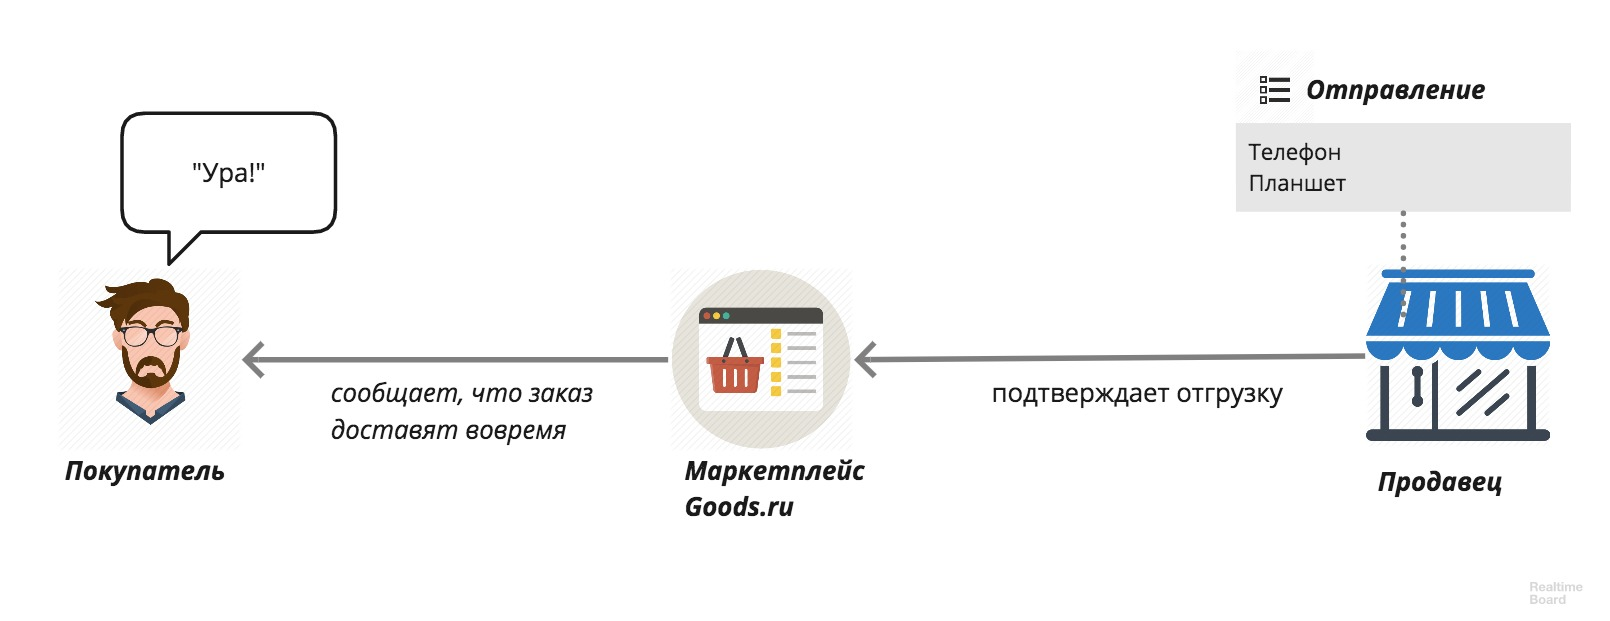
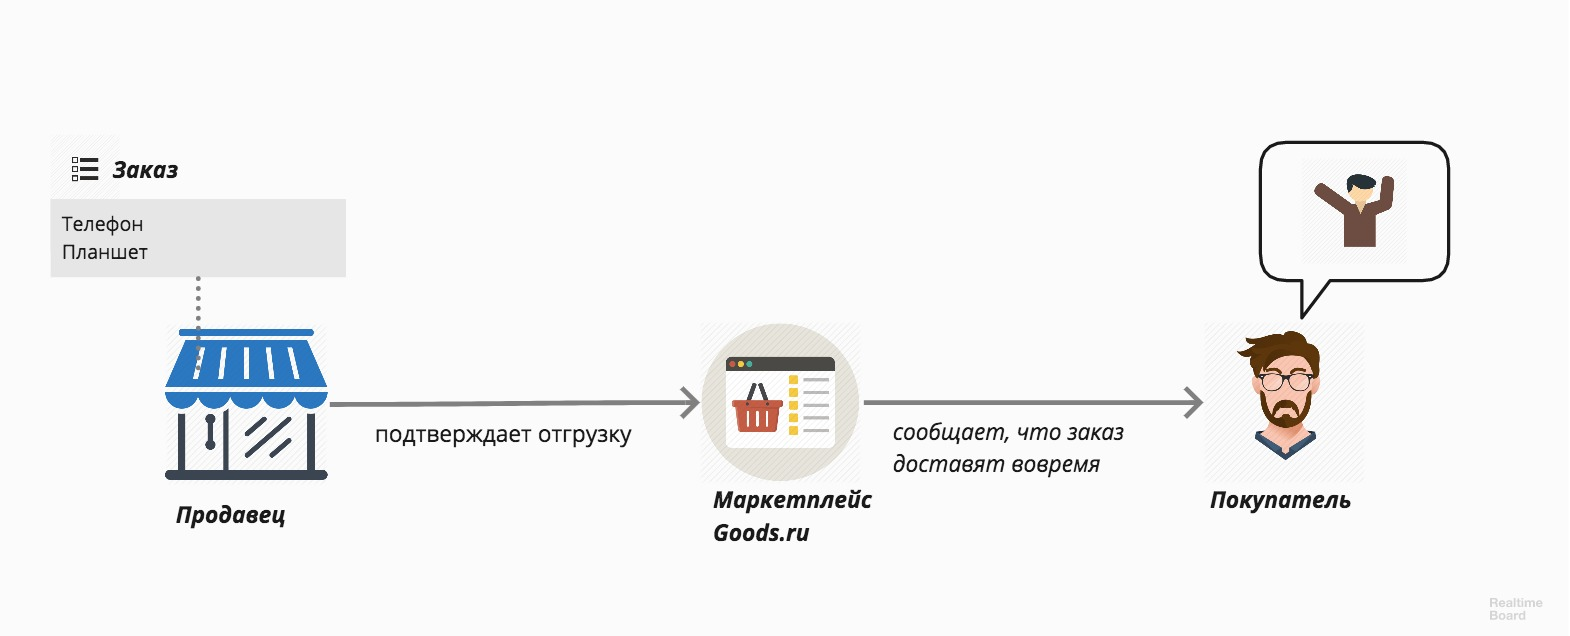
change text

diff --git a/index.html b/index.html
@@ -65,9 +65,9 @@
 <h3>Взаимодействие продавцов с Goods</h3>
 
 <ol>
-	<li><em>Продавец</em> подписывает договор об оказании услуг, после чего размещает товарные предложения на сайте Goods. Управление товарными предложениями осуществляется через прайс-лист в формате YML (<a href="#yml">подробнее про YML</a>). 
+	<li><strong><em>Продавец</em> размещает товарные предложения для продажи на маркетплейса Goods.ru.</strong>
 
-		<p>Товарные предложения описываются характеристиками:</p>
+		<p>Управление товарными предложениями осуществляется через прайс-лист в формате YML (<a href="#yml">подробнее про YML</a>). Товарные предложения описываются характеристиками:</p>
 
 		<ul>
 			<li>товар;</li>
@@ -79,8 +79,10 @@
 		<h4>Пример описания товарных предложений в прайс-листе</h4>
 
 		<script src="https://gist.github.com/zavarovkv/7eb65b1b4014e7de8e0f4fa9d785811d.js"></script></li>
-	<li><em>Покупатель</em> оформил заказ<em> на </em>маркетплейсе<em> Goods.ru. Предположим, заказ состоит из трех позиций: 
-		</em>
+	<li><strong><em>Покупатель</em> оформляет заказ на маркетплейсе<em> Goods.ru</em>.
+		</strong>
+
+		<p>Предположим, заказ состоит из трех позиций:</p>
 
 		<ul>
 			<li><em>телефон</em> </li>
@@ -91,14 +93,27 @@
 		<p><em>Телефон</em> и <em>планшет</em> куплен у <em>Продавец 1</em>, а <em>корм для питомца</em> у <em>Продавец 2</em>. Goods сообщает каждому из продавцов про свою часть заказа.</p>
 
 		<figure><img src="img-1.jpg"/></figure></li>
-	<li>Для упрощения рассмотрим взаимодействие Goods только с одним из продавцом.
+	<li><strong><em>Продавец</em> подтверждает получение заказа от Goods.</strong> 
+
+		<blockquote>
+		<p>Для упрощения рассмотрим взаимодействие Goods только с одним из продавцом.</p>
+		</blockquote>
 
 		<p>Продавец, получив новый заказ от Goods проверяет доступное кол-во остатков по каждой из позиции и дает свое согласие об отгрузке отправления в указанный срок.</p>
 
 		<figure><img src="img-2.jpg"/></figure></li>
-	<li>Продавец комплектует товары по грузовым местам. Каждому грузовому месту присваивается и распечатывается маркировочный лист с уникальным Штрих-кодом. Продавец сообщает Goods об успешной комплектации заказа для того, чтобы Goods смог передать о Штрих-кодах на Сортировочный Центр.
+	<li><strong><em>Продавец</em> выполняет сборку и комплектацию заказа в грузовые места. </strong>
+
+		<p>Для каждого грузового места распечатывается свой маркировочный лист с уникальным Штрих-Кодом (ШК). После наклейки ШК на грузовое место оно считается скомплектованным. </p>
+
+		<p>Продавец сообщает Goods об успешной комплектации заказа для того, чтобы Goods смог передать информацию о ШК на Сортировочный Центр. После выполнения сборки и комплектации грузовые места ожидают отгрузки на складе продавца.</p>
 
 		<figure><img src="img-3.jpg"/></figure></li>
+	<li><strong><em>Продавец</em> выполняет отгрузку грузовых мест.</strong>
+
+		<p>В согласованное время на склад продавца приезжает водитель-курьер логистического оператора (3PL) для забора груза. Продавец распечатывает Реестр отгрузки с перечнем грузовых мест и передает реестр отгрузки и скомплектованные грузовые места 3PL-оператору.</p>
+
+		<figure><img src="img-4.jpg"/></figure></li>
 	<li></li>
 </ol>
 
